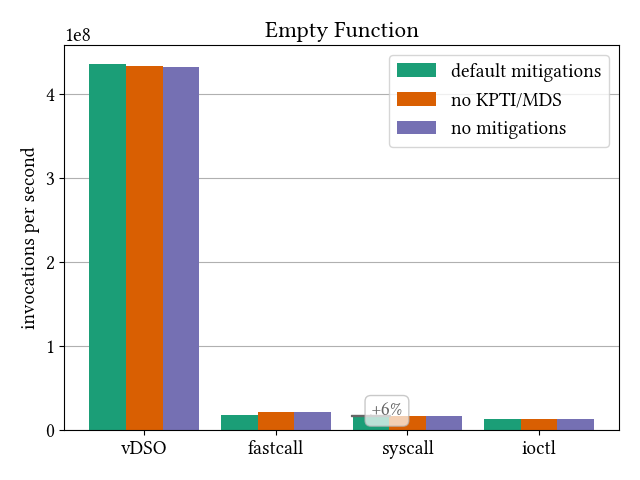
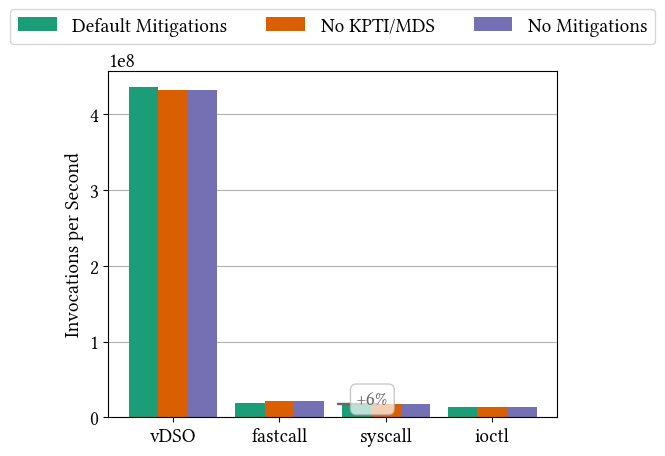
improve style of plots
This changes capitalization, removes titles and repositions legends.

diff --git a/plotting/percpu.py b/plotting/percpu.py
@@ -28,9 +28,9 @@ BAR_WIDTH = 1
 BAR_SPACE = 0.6
 """Space between groups of bars in the plots."""
 
-Y_LABEL_LATENCY = "latency [ns]"
-Y_LABEL_THROUGHPUT_INVOCATIONS = "invocations per second"
-Y_LABEL_THROUGHPUT_BYTES = "bytes per second"
+Y_LABEL_LATENCY = "Latency [ns]"
+Y_LABEL_THROUGHPUT_INVOCATIONS = "Invocations per Second"
+Y_LABEL_THROUGHPUT_BYTES = "Bytes per Second"
 
 BAR_OFFSET = -(len(MITIGATIONS) - 1) * BAR_WIDTH / 2
 BAR_GROUP = len(MITIGATIONS) * BAR_WIDTH + BAR_SPACE
@@ -57,35 +57,35 @@ def plot_evaluation(eval_dir, function, results):
     for i, scenario in enumerate(SCENARIOS):
         makedirs(eval_dir, exist_ok=True)
         plot_file = path.join(eval_dir, scenario.replace(" ", "_") + PLOT_EXT)
-        function(plot_file, scenario, results[:, :, i])
+        function(plot_file, results[:, :, i])
 
 
-def plot_latency(plot_file, title, results):
+def plot_latency(plot_file, results):
     """Create a single plot depicting latency."""
-    plot_scenario(plot_file, title, Y_LABEL_LATENCY, results[:, :, 0])
+    plot_scenario(plot_file, Y_LABEL_LATENCY, results[:, :, 0])
 
 
 EVALUATIONS["latency"] = plot_latency
 
 
-def plot_throughput_invocations(plot_file, title, results):
+def plot_throughput_invocations(plot_file, results):
     """Create a single plot depicting invocation per time."""
     results = 1 / (LATENCY_TO_SECONDS * results[:, :, 0])
-    plot_scenario(plot_file, title, Y_LABEL_THROUGHPUT_INVOCATIONS, results)
+    plot_scenario(plot_file, Y_LABEL_THROUGHPUT_INVOCATIONS, results)
 
 
 EVALUATIONS["throughput_invocations"] = plot_throughput_invocations
 
 
-def plot_throughput_bytes(plot_file, title, results):
+def plot_throughput_bytes(plot_file, results):
     """Create a single plot depicting bytes per second."""
-    plot_scenario(plot_file, title, Y_LABEL_THROUGHPUT_BYTES, results[:, :, 1])
+    plot_scenario(plot_file, Y_LABEL_THROUGHPUT_BYTES, results[:, :, 1])
 
 
 EVALUATIONS["throughput_bytes"] = plot_throughput_bytes
 
 
-def plot_scenario(plot_file, title, y_label, results):
+def plot_scenario(plot_file, y_label, results):
     """Create a single plot for the chosen CPU and scenario.
 
     This is a grouped bar chart which plots against method and uses color
@@ -96,7 +96,6 @@ def plot_scenario(plot_file, title, y_label, results):
 
     fig, ax = plt.subplots()
     ax.set_prop_cycle(color=COLORS)
-    ax.set_title(title)
     ax.set_ylabel(y_label)
 
     x = np.arange(len(METHODS)) * BAR_GROUP
@@ -114,9 +113,10 @@ def plot_scenario(plot_file, title, y_label, results):
     ax.set_xticklabels(METHODS.values())
     ax.set_axisbelow(True)
     ax.yaxis.grid(GRID_ENABLE)
-    ax.legend()
+    ax.legend(ncol=len(MITIGATIONS), loc="lower center",
+              bbox_to_anchor=(0.5, 1.05))
     fig.tight_layout()
-    fig.savefig(plot_file)
+    fig.savefig(plot_file, bbox_inches="tight")
 
 
 def draw_arrow(ax, x, results):

diff --git a/plotting/fork.py b/plotting/fork.py
@@ -32,17 +32,16 @@ removed when fixed.
 """
 
 STACK = (
-    ("fastcall", "fork-fastcall", "w/ registrations"),
-    ("fastcall", "fork-simple", "w/o registrations"),
-    ("stock", "fork-simple", "stock kernel"),
+    ("fastcall", "fork-fastcall", "W/ Registrations"),
+    ("fastcall", "fork-simple", "W/O Registrations"),
+    ("stock", "fork-simple", "Stock Kernel"),
 )
 """
 (kernel, measure, label) tuples describing the sections of the stacked bar plot.
 """
 
-PLOT_NAME = "fork"
-TITLE = "Fork Latencies"
-Y_LABEL = "latency [µs]"
+PLOT_NAME = "Fork"
+Y_LABEL = "Latency [µs]"
 SCALING = 10 ** -3
 BAR_WIDTH = 0.3
 
@@ -178,4 +177,4 @@ def plot_cpu(cpu_dir, results):
     fig.tight_layout()
 
     plot_file = path.join(cpu_dir, PLOT_NAME + PLOT_EXT)
-    fig.savefig(plot_file)
+    fig.savefig(plot_file, bbox_inches="tight")

diff --git a/plotting/utils.py b/plotting/utils.py
@@ -7,8 +7,8 @@ PLOTS_DIR = "./plots/"
 CSV_EXT = ".csv"
 PLOT_EXT = ".png"
 
-MITIGATIONS = {"mitigations=auto": "default mitigations",
-               "nopti%mds=off": "no KPTI/MDS", "mitigations=off": "no mitigations"}
+MITIGATIONS = {"mitigations=auto": "Default Mitigations",
+               "nopti%mds=off": "No KPTI/MDS", "mitigations=off": "No Mitigations"}
 """
 Mapping from directory names of different mitigation settings to plot legends.
 """

diff --git a/plotting/cpucmp.py b/plotting/cpucmp.py
@@ -22,7 +22,7 @@ BAR_WIDTH = 1
 BAR_SPACE = 0.6
 """Space between groups of bars in the plots."""
 
-Y_LABEL = "latency [ns]"
+Y_LABEL = "Latency [ns]"
 LABELS = len(PLOT_CPUS) * len(PLOT_MITI)
 BAR_OFFSET = -(LABELS - 1) * BAR_WIDTH / 2
 BAR_GROUP = LABELS * BAR_WIDTH + BAR_SPACE
